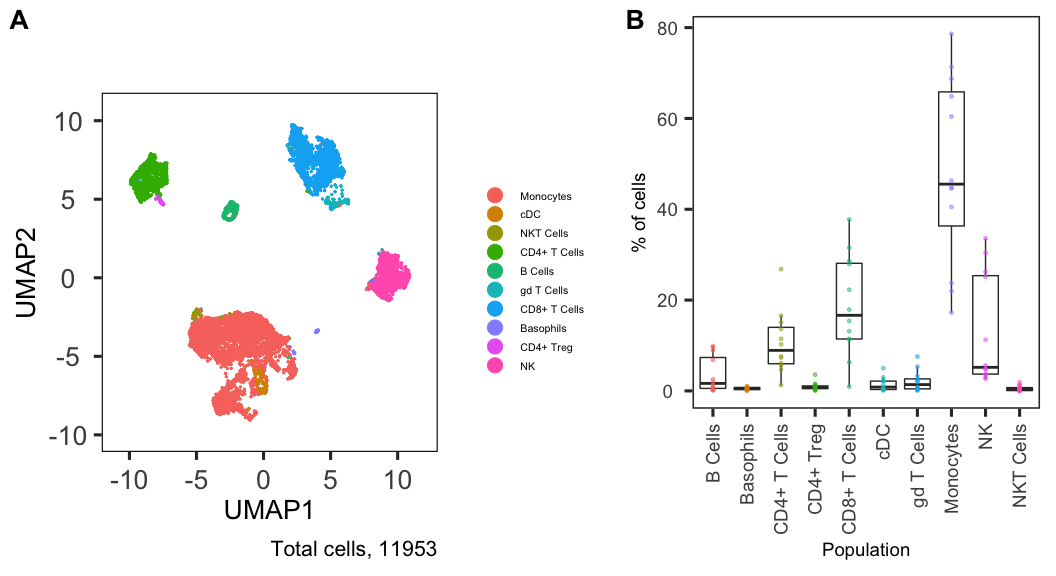
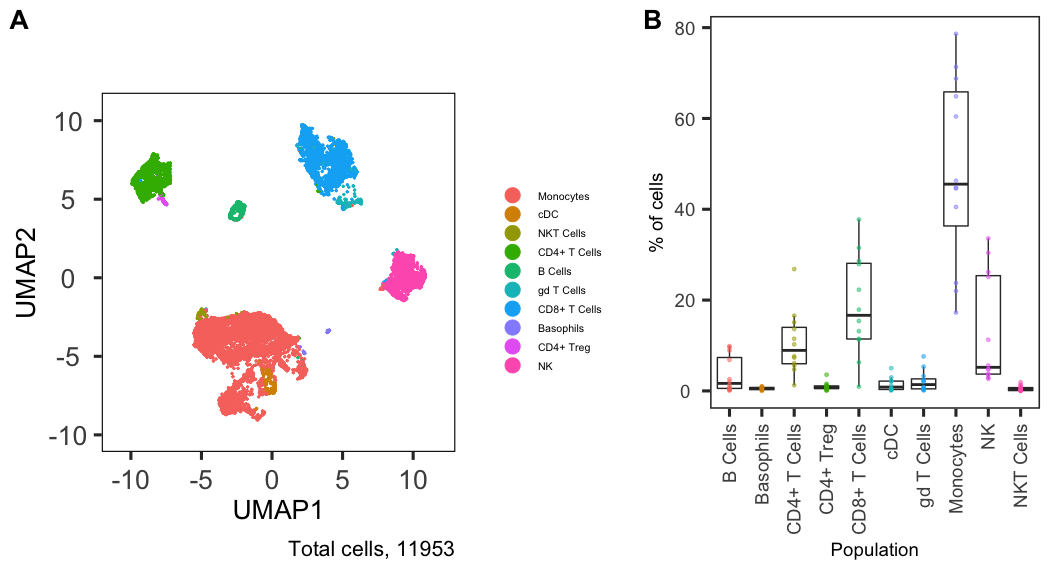
README update

diff --git a/README.md b/README.md
@@ -1,7 +1,7 @@
 immunoCluster
 ================
 James Opzoomer, Kevin Blighe, Jessica Timms
-2020-04-15
+2020-04-21
 
 **NOTE: THIS PACKAGE IS STILL UNDER DEVELOPMENT AND SO SOME OF THE
 FUNCTIONALITY IS NOT FULLY TESTED**
@@ -535,7 +535,7 @@ annotated_abundance = plotAbundance(sce_gvhd,
               captionLabSize = 18)
 
 plot_grid(cell_annotation, annotated_abundance, 
-    labels = c('A','B'), align = "l", label_size = 20, rel_widths = c(1.4,1))
+    labels = c('A','B'), align = "l", label_size = 20, rel_widths = c(1.5,1), rel_heights = c(1.3,1))
 ```
 
 <img src="README_files/figure-gfm/merge clusters-1.png" style="display: block; margin: auto;" />
@@ -552,7 +552,7 @@ bar_plot = plotAbundance(sce_gvhd,
               clusters = annotated_clusters,
               clusterAssign = 'cell_annotation',
               feature = 'condition',
-              legendLabSize = 8,
+              legendLabSize = 7,
               stripLabSize = 22,
               axisLabSize = 22,
               titleLabSize = 22,
@@ -599,10 +599,10 @@ cell_annotation_dif = metadataPlot(sce_gvhd,
     colby = 'condition',
     title = '',
     colkey = c(None = 'royalblue', GvHD = 'red2'),
-    legendPosition = 'top',
-    legendLabSize = 16,
-    axisLabSize = 20,
-    titleLabSize = 20,
+    legendPosition = 'right',
+    legendLabSize = 8,
+    axisLabSize = 14,
+    titleLabSize = 16,
     subtitleLabSize = 16,
     captionLabSize = 16)
 
@@ -622,7 +622,7 @@ abundance_dif = plotAbundance(sce_gvhd,
 
 plot_grid(cell_annotation_dif, abundance_dif,
     labels = c('A','B'),
-    ncol = 2, align = "l", label_size = 20, rel_widths = c(1.4,1), rel_heights =  c(1.2,1))
+    ncol = 2, align = "l", label_size = 20, rel_widths = c(1.6,1), rel_heights =  c(1.5,1))
 ```
 
 <img src="README_files/figure-gfm/cell annotations-1.png" style="display: block; margin: auto;" />
@@ -671,10 +671,17 @@ abundance_bcell = plotAbundance(sce_gvhd,
 
 plot_grid(gg_volcano, abundance_bcell,
     labels = c('A','B'),
-    ncol = 2, align = "l", label_size = 20, rel_widths = c(1.2,1))
+    ncol = 2, align = "l", label_size = 20, rel_widths = c(1,1.4))
 ```
 
 <img src="README_files/figure-gfm/abundance test-1.png" style="display: block; margin: auto;" />
+
+We can perform the same process for differential expression across all
+markers on all populations defined with the diffExpression() function.
+We can plot the results a volcano plot as before and beside we have
+plotted markerExpressionPerSample() to vizualise the median marker
+expression per sample on a set of markers on a sepcific set of defined
+clusters.
 
 ``` r
 # Need to catch errors - cluster not there causes crash
@@ -685,6 +692,7 @@ marker_test = diffExpression(sce_gvhd,
                 clusterAssign = 'cell_annotation')
 
 sig_markers = marker_test[which(marker_test$p_val < 0.05),]
+
 head(sig_markers)
 ```
 
@@ -711,11 +719,11 @@ head(sig_markers)
     ## 133 0.5922031 1.54912372 -0.96159499 0.02497468 0.5929411
 
 ``` r
-# Does not work presently
-# diffPlot(test, p_val = "p_val", threshold = 0.05)
+# Create volcano plot
+gg_volcano = diffPlot(marker_test, p_val = "p_val", threshold = 0.05)
 
 # Difference in activation markers per cluster
-markerExpressionPerSample(sce_gvhd,
+pd_expression = markerExpressionPerSample(sce_gvhd,
     caption = '',
     clusters = c("CD8+ T Cells", "cDC"),
     feature = 'condition',
@@ -728,13 +736,44 @@ markerExpressionPerSample(sce_gvhd,
     titleLabSize = 18,
     subtitleLabSize = 10,
     captionLabSize = 10)
+
+
+plot_grid(gg_volcano, pd_expression,
+    labels = c('A','B'),
+    ncol = 2, align = "l", label_size = 20, rel_widths = c(1,1.4))
 ```
 
 <img src="README_files/figure-gfm/marker test-1.png" style="display: block; margin: auto;" />
 
+# Subsetting the SCE object
+
+SCE can be subsetted for further clustering, for instance, in a
+situation when increased cluster resolution is desired. Subsetting can
+be performed using the subsetSCE() function. The function can subset
+cells on any metadata slot using conditional statements in a dplyr-style
+syntax. An couple of examples are presented below:
+
 ``` r
-# SubsetSCE function
+# Subset by patient_ID
+sce_subset = subsetSCE(sce_gvhd, patient_id %in% c("P1", "P9", "P15"))
+
+table(sce_subset@metadata$patient_id)
 ```
+
+    ## 
+    ##     P1    P15     P9 
+    ## 156422 131263  98571
+
+``` r
+# Subset by clustering idenity
+sce_cd4 = subsetSCE(sce_gvhd, cell_annotation %in% c("CD4+ T Cells", "Basophils"))
+
+table(sce_cd4@metadata$cell_annotation)
+```
+
+    ## 
+    ##    Basophils CD4+ T Cells 
+    ##         5241       101908
 
 # Session info
 
@@ -758,48 +797,48 @@ sessionInfo()
     ## [8] methods   base     
     ## 
     ## other attached packages:
-    ##  [1] broom_0.5.5                 tibble_3.0.0               
+    ##  [1] broom_0.5.6                 tibble_3.0.0               
     ##  [3] scran_1.14.6                umap_0.2.5.0               
     ##  [5] pheatmap_1.0.12             Rtsne_0.15                 
-    ##  [7] reshape2_1.4.3              limma_3.42.2               
+    ##  [7] reshape2_1.4.4              limma_3.42.2               
     ##  [9] FlowSOM_1.18.0              igraph_1.2.5               
     ## [11] ConsensusClusterPlus_1.50.0 RColorBrewer_1.1-2         
     ## [13] cowplot_1.0.0               stringr_1.4.0              
     ## [15] flowCore_1.52.1             immunoCluster_0.1.0        
     ## [17] dplyr_0.8.5                 ggrepel_0.8.2              
     ## [19] ggplot2_3.3.0               SingleCellExperiment_1.8.0 
-    ## [21] SummarizedExperiment_1.16.1 DelayedArray_0.12.2        
+    ## [21] SummarizedExperiment_1.16.1 DelayedArray_0.12.3        
     ## [23] BiocParallel_1.20.1         matrixStats_0.56.0         
     ## [25] Biobase_2.46.0              GenomicRanges_1.38.0       
     ## [27] GenomeInfoDb_1.22.1         IRanges_2.20.2             
-    ## [29] S4Vectors_0.24.3            BiocGenerics_0.32.0        
+    ## [29] S4Vectors_0.24.4            BiocGenerics_0.32.0        
     ## [31] kableExtra_1.1.0            knitr_1.28                 
     ## 
     ## loaded via a namespace (and not attached):
-    ##   [1] backports_1.1.5          plyr_1.8.6               splines_3.6.2           
-    ##   [4] fda_2.4.8.1              scater_1.14.6            digest_0.6.25           
+    ##   [1] backports_1.1.6          plyr_1.8.6               splines_3.6.2           
+    ##   [4] fda_5.1.4                scater_1.14.6            digest_0.6.25           
     ##   [7] htmltools_0.4.0          viridis_0.5.1            fansi_0.4.1             
     ##  [10] magrittr_1.5             CytoML_1.12.1            cluster_2.1.0           
     ##  [13] ks_1.11.7                readr_1.3.1              RcppParallel_5.0.0      
     ##  [16] R.utils_2.9.2            askpass_1.1              flowWorkspace_3.34.1    
     ##  [19] jpeg_0.1-8.1             colorspace_1.4-1         rvest_0.3.5             
     ##  [22] rrcov_1.5-2              xfun_0.12                crayon_1.3.4            
-    ##  [25] RCurl_1.98-1.1           jsonlite_1.6.1           hexbin_1.28.1           
-    ##  [28] graph_1.64.0             glue_1.3.2               flowClust_3.24.0        
+    ##  [25] RCurl_1.98-1.2           jsonlite_1.6.1           hexbin_1.28.1           
+    ##  [28] graph_1.64.0             glue_1.4.0               flowClust_3.24.0        
     ##  [31] gtable_0.3.0             zlibbioc_1.32.0          XVector_0.26.0          
     ##  [34] webshot_0.5.2            ggcyto_1.14.1            BiocSingular_1.2.2      
     ##  [37] IDPmisc_1.1.20           Rgraphviz_2.30.0         DEoptimR_1.0-8          
     ##  [40] scales_1.1.0             mvtnorm_1.1-0            edgeR_3.28.1            
     ##  [43] Rcpp_1.0.4               viridisLite_0.3.0        clue_0.3-57             
-    ##  [46] dqrng_0.2.1              reticulate_1.13          openCyto_1.24.0         
-    ##  [49] rsvd_1.0.3               mclust_5.4.5             tsne_0.1-3              
+    ##  [46] dqrng_0.2.1              reticulate_1.15          openCyto_1.24.0         
+    ##  [49] rsvd_1.0.3               mclust_5.4.6             tsne_0.1-3              
     ##  [52] httr_1.4.1               ellipsis_0.3.0           pkgconfig_2.0.3         
     ##  [55] XML_3.99-0.3             R.methodsS3_1.8.0        farver_2.0.3            
     ##  [58] flowViz_1.50.0           locfit_1.5-9.4           utf8_1.1.4              
     ##  [61] flowStats_3.44.0         tidyselect_1.0.0         labeling_0.3            
     ##  [64] rlang_0.4.5              munsell_0.5.0            tools_3.6.2             
     ##  [67] cli_2.0.2                generics_0.0.2           evaluate_0.14           
-    ##  [70] yaml_2.2.1               robustbase_0.93-6        purrr_0.3.3             
+    ##  [70] yaml_2.2.1               robustbase_0.93-6        purrr_0.3.4             
     ##  [73] nlme_3.1-145             RBGL_1.62.1              R.oo_1.23.0             
     ##  [76] xml2_1.3.0               compiler_3.6.2           rstudioapi_0.11         
     ##  [79] beeswarm_0.2.3           png_0.1-7                statmod_1.4.34          
@@ -810,7 +849,7 @@ sessionInfo()
     ##  [94] corpcor_1.6.9            R6_2.4.1                 latticeExtra_0.6-29     
     ##  [97] KernSmooth_2.23-16       gridExtra_2.3            vipor_0.4.5             
     ## [100] MASS_7.3-51.5            gtools_3.8.2             assertthat_0.2.1        
-    ## [103] openssl_1.4.1            withr_2.1.2              mnormt_1.5-6            
+    ## [103] openssl_1.4.1            withr_2.2.0              mnormt_1.5-6            
     ## [106] GenomeInfoDbData_1.2.2   hms_0.5.3                ncdfFlow_2.32.0         
     ## [109] grid_3.6.2               tidyr_1.0.2              DelayedMatrixStats_1.8.0
     ## [112] rmarkdown_2.1            base64enc_0.1-3          ggbeeswarm_0.6.0        
